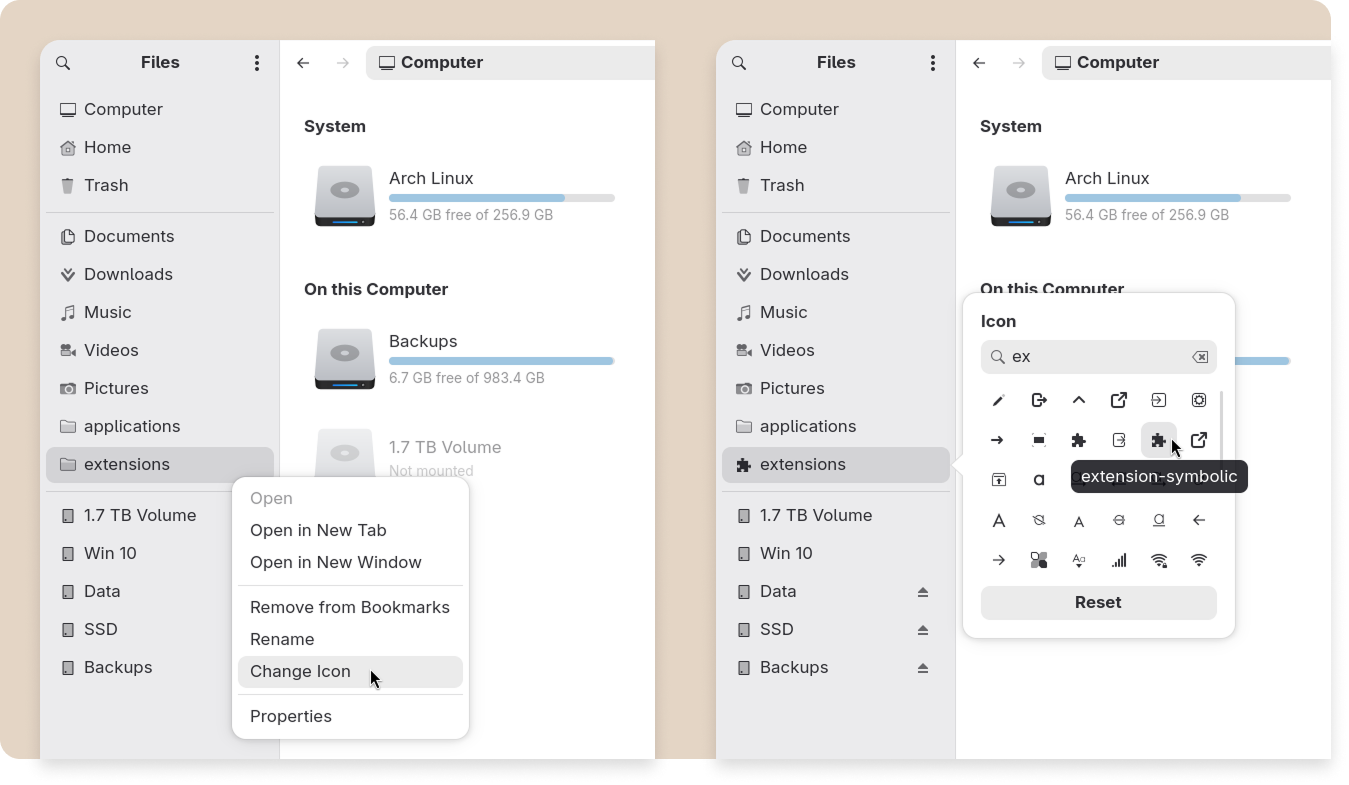
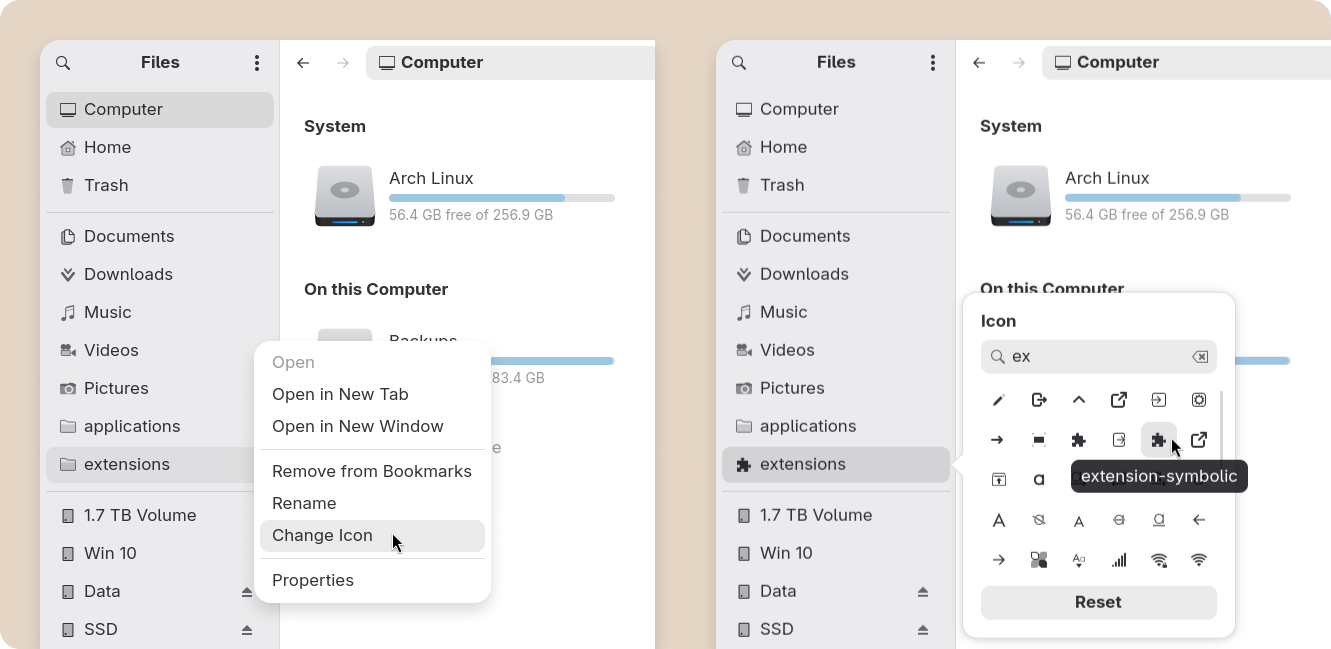
chore: bump to v0.8.3, raise Python floor to 3.12
Extension already required libadwaita 1.5 / GNOME 46, so no distro
that can run it ships Python < 3.11; the 3.9 floor was stale.

diff --git a/nautilus-my-computer.py b/nautilus-my-computer.py
@@ -1,3 +1,5 @@
+from __future__ import annotations
+
 import dataclasses
 import gettext
 import os
@@ -80,7 +82,7 @@ DETACH_SETTINGS_WINDOW = False  # testing toggle: True opens settings as a stand
 
 # ── Extension metadata (keep in sync with pyproject.toml) ────────────────────
 EXT_NAME = "My Computer for Nautilus"
-EXT_VERSION = "0.8.2"
+EXT_VERSION = "0.8.3"
 EXT_AUTHOR = "Yann Masoch"
 EXT_LICENSE = "MIT"
 EXT_GITHUB = "https://github.com/yannmasoch/nautilus-my-computer"

diff --git a/CHANGELOG.md b/CHANGELOG.md
@@ -4,6 +4,18 @@ All notable changes to this project are documented here.
 
 ---
 
+## v0.8.3
+Raises the Python floor to match what the extension actually requires, and refreshes a doc screenshot.
+
+### Changed
+- Minimum Python bumped from 3.9 to 3.12. The extension already required
+  libadwaita 1.5 (`Adw.PreferencesDialog`) and GNOME 46, so no distro that
+  can run it ships Python older than 3.11; the 3.9 floor was no longer
+  accurate
+- Updated the custom bookmark icons screenshot in `assets/images/`
+
+---
+
 ## v0.8.2
 Translation prep for the bookmark icon picker.
 